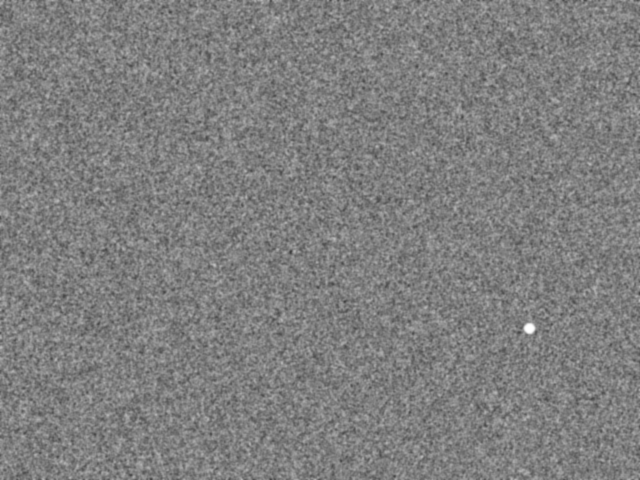
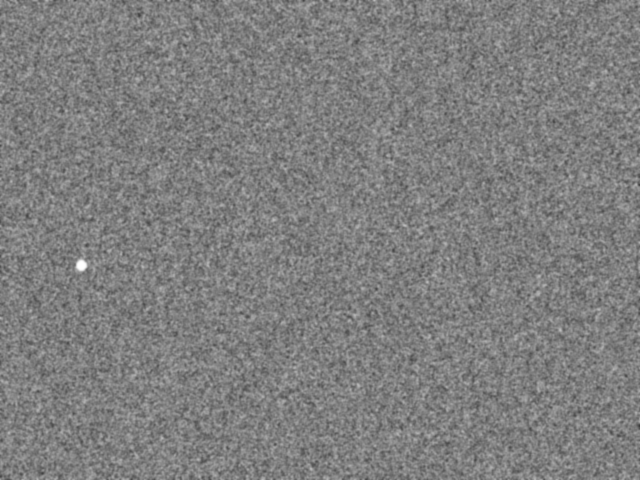
working simulator and outputs

Changed region(s): [[0.0, 0.0, 1.0, 1.0]]

diff --git a/tracking/detector.py b/tracking/detector.py
@@ -4,24 +4,22 @@ from numpy import array
 
 # constants
 global PATH_TO_FRAMES
-PATH_TO_FRAMES = "../simulator/frames"
+PATH_TO_FRAMES = "./simulator/frames"
 
 # TODO: grab the number of frames in the directory; currently assuming 30 frames
 global DEFAULT_NUMBER_OF_FRAMES
 DEFAULT_NUMBER_OF_FRAMES = 30
 
 
-def grabBlobKeypoint():
+def grabBlobKeypoint(currentFrameNum):
+    print(PATH_TO_FRAMES+f"/frame{currentFrameNum}.png",)
     # grab frame in grayscale mode
-    currentFrame = imread(PATH_TO_FRAMES+"/frame0.png", 0)
-    imshow("frame0", currentFrame)
-    # waits till user presses any key to stop python kernel crashing
-    waitKey(0)
-    # destroys open windows after key press
-    destroyAllWindows()
-
-    # # making only the pixels above 200 brightness visible, the rest are black.
-    # thresholdValue, thresholdFrame = threshold(currentFrame, 200, 255, THRESH_BINARY)
+    currentFrame = imread(PATH_TO_FRAMES+f"/frame{currentFrameNum}.png", 0)
+    # imshow("frame0", currentFrame)
+    # # waits till user presses any key to stop python kernel crashing
+    # waitKey(0)
+    # # destroys open windows after key press
+    # destroyAllWindows()
 
     # Setting the parameters for the simple blob detector
     params = SimpleBlobDetector_Params()
@@ -41,17 +39,10 @@ def grabBlobKeypoint():
     blobsDetected = detector.detect(currentFrame)
     print(blobsDetected)
 
-    output = drawKeypoints(currentFrame, blobsDetected, array([]), (0, 0, 255),
-                               DRAW_MATCHES_FLAGS_DRAW_RICH_KEYPOINTS)
-     
-    # Show the output
-    imshow("Blobs Detected", output)
-    waitKey(0)
-    destroyAllWindows()
+    return blobsDetected
 
-
-grabBlobKeypoint()
-
-# simulating the fast steering mirror
-def fastSteeringMirror():
-    pass
+    #output = drawKeypoints(currentFrame, blobsDetected, array([]), (0, 0, 255),DRAW_MATCHES_FLAGS_DRAW_RICH_KEYPOINTS)
+    # # Show the output
+    # imshow("Blobs Detected", output)
+    # waitKey(0)
+    # destroyAllWindows()

diff --git a/tracking/tracker.py b/tracking/tracker.py
@@ -1,1 +1,60 @@
-# tracker.py placeholder
+class PIDController:
+    def __init__(self, Kp, Ki, Kd):
+        self.Kp = Kp
+        self.Ki = Ki
+        self.Kd = Kd
+        self.integral = 0
+        self.prev_error = 0
+
+    def update(self, error):
+        self.integral += error
+        derivative = error - self.prev_error
+        self.prev_error = error
+
+        output = (
+            # Kp * error = correct the error proportional to the size of the error - how far should the mirror move
+            self.Kp * error +
+            # Ki * integral = Addressing long-term errors, if the error is still persistent over time,increase 
+            self.Ki * self.integral +
+            # Kd * currentError-PrevError ; anticipating future by dampening the correction - braking when increasing too much
+            self.Kd * derivative
+        )
+        return output
+
+
+def applyPID(laser_x, laser_y):
+    # Image parameters
+    width, height = (640,480)
+    targetX, targetY = width // 2, height // 2  # target center
+
+    # # Initialize PID controllers
+    pid_x = PIDController(Kp=0.3, Ki=0.01, Kd=0.05)
+    pid_y = PIDController(Kp=0.3, Ki=0.01, Kd=0.05)
+
+    # Store tracking error for plotting
+    error_history = []
+
+    for i in range(200):
+        # Simulate detected position (you could add measurement noise here)
+        detected_x = laser_x
+        detected_y = laser_y
+
+        # Calculate errors
+        error_x = detected_x - targetX
+        error_y = detected_y - targetY
+
+        # Get PID correction
+        correction_x = pid_x.update(error_x)
+        correction_y = pid_y.update(error_y)
+
+        # Apply correction — this simulates what the mirror would do
+        laser_x -= correction_x
+        laser_y -= correction_y
+
+        # Record current distance from center
+        distance = ((detected_x - targetX)**2 + (detected_y - targetY)**2)**0.5
+        error_history.append(distance)
+
+    return error_history, laser_x, laser_y
+
+

diff --git a/run.py b/run.py
@@ -1,1 +1,34 @@
-# Entry point for the laser tracking simulation
+# entry point to run entire laser sim
+
+import matplotlib.pyplot as plt
+import simulator.frame_generator as frame_generator
+import tracking.detector as detector
+import tracking.tracker as tracker
+from PIL import Image, ImageDraw
+
+
+frame_generator.generateFrames()
+for currentFrameNumber in range(30):
+    # currentFrameCoords = detector.grabBlobKeypoint(currentFrameNumber)
+    print(currentFrameNumber)
+    laserXCoords, laserYCoords =  detector.grabBlobKeypoint(currentFrameNumber)[0].pt[0], detector.grabBlobKeypoint(currentFrameNumber)[0].pt[1]
+    errorData, x, y = tracker.applyPID(laserXCoords, laserYCoords)
+    
+    # saving the tracking error over time
+    plt.plot(errorData)
+    plt.title("Tracking Error Over Time")
+    plt.xlabel("Frame")
+    plt.ylabel("Distance from Center (px)")
+    plt.grid(True)
+    plt.savefig(f"outputs/trackingError/frame{currentFrameNumber}Error.png") 
+
+    # draw final image based on the correct x and y values, simulating what would be seen on fsm
+    final_image = Image.new("L", (640,480), 0)  # 0 = black
+    draw = ImageDraw.Draw(final_image)
+    dot_radius = 4
+    # Define the bounding box for the white dot
+    top_left = (int(x) - dot_radius, int(y) - dot_radius)
+    bottom_right = (int(x) + dot_radius, int(y) + dot_radius)
+    # Draw the white laser dot
+    draw.ellipse([top_left, bottom_right], fill=255)
+    final_image.save(f"outputs/finalImages/frame{currentFrameNumber}Final.png") 

diff --git a/simulator/frame_generator.py b/simulator/frame_generator.py
@@ -1,4 +1,4 @@
-from PIL import Image, ImageDraw, ImageFilter # TODO: add PIL to requirments.txt
+from PIL import Image, ImageDraw, ImageFilter
 from random import randint
 
 # globals
@@ -25,11 +25,12 @@ def generateFrame(coords):
 
     return filtered
 
-for i in range(30):
-    # 1 second at 30fps = 30 frames
+def generateFrames():
+    for i in range(30):
+        # 1 second at 30fps = 30 frames
 
-    # generateFrame((BASE_X+i, BASE_Y)).show("generatedImage.png") # show image in a browser
-    # prints the current frame then the funtion will print the coords for the laser
-    print(f"frame: {i}")
-    # adds i*4 to x to increase the difference in distance moved per frame of the laser, (randint(-1,1) adds random up/ down jitter to laser)
-    generateFrame((BASE_X+(i*4), BASE_Y+(randint(-1,1)))).save(f"frames/frame{i}.png") # save image in frames folder
+        # generateFrame((BASE_X+i, BASE_Y)).show("generatedImage.png") # show image in a browser
+        # prints the current frame then the funtion will print the coords for the laser
+        print(f"frame: {i}")
+        # adds i*4 to x to increase the difference in distance moved per frame of the laser, (randint(-1,1) adds random up/ down jitter to laser)
+        generateFrame((BASE_X+(i*4), BASE_Y+(randint(-1,1)))).save(f"simulator/frames/frame{i}.png") # save image in frames folder
